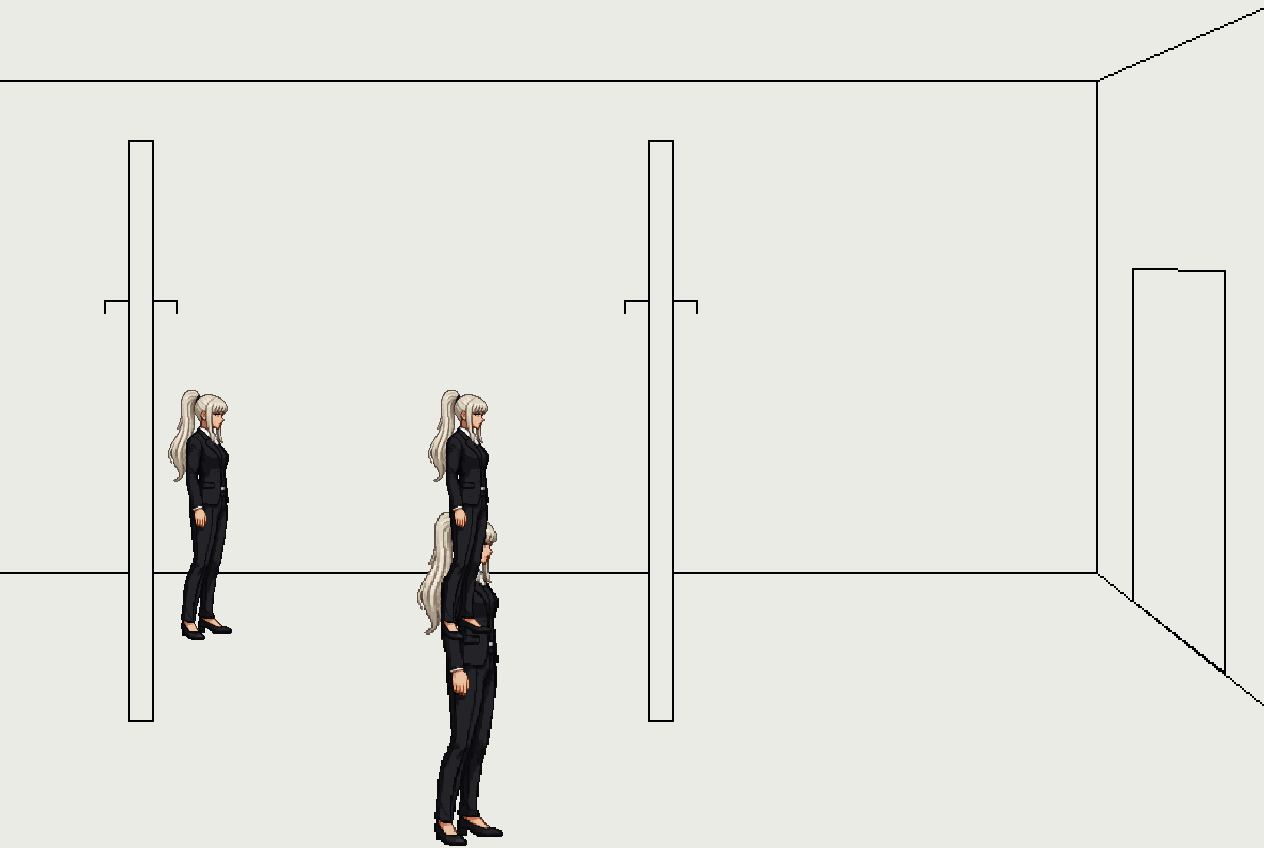
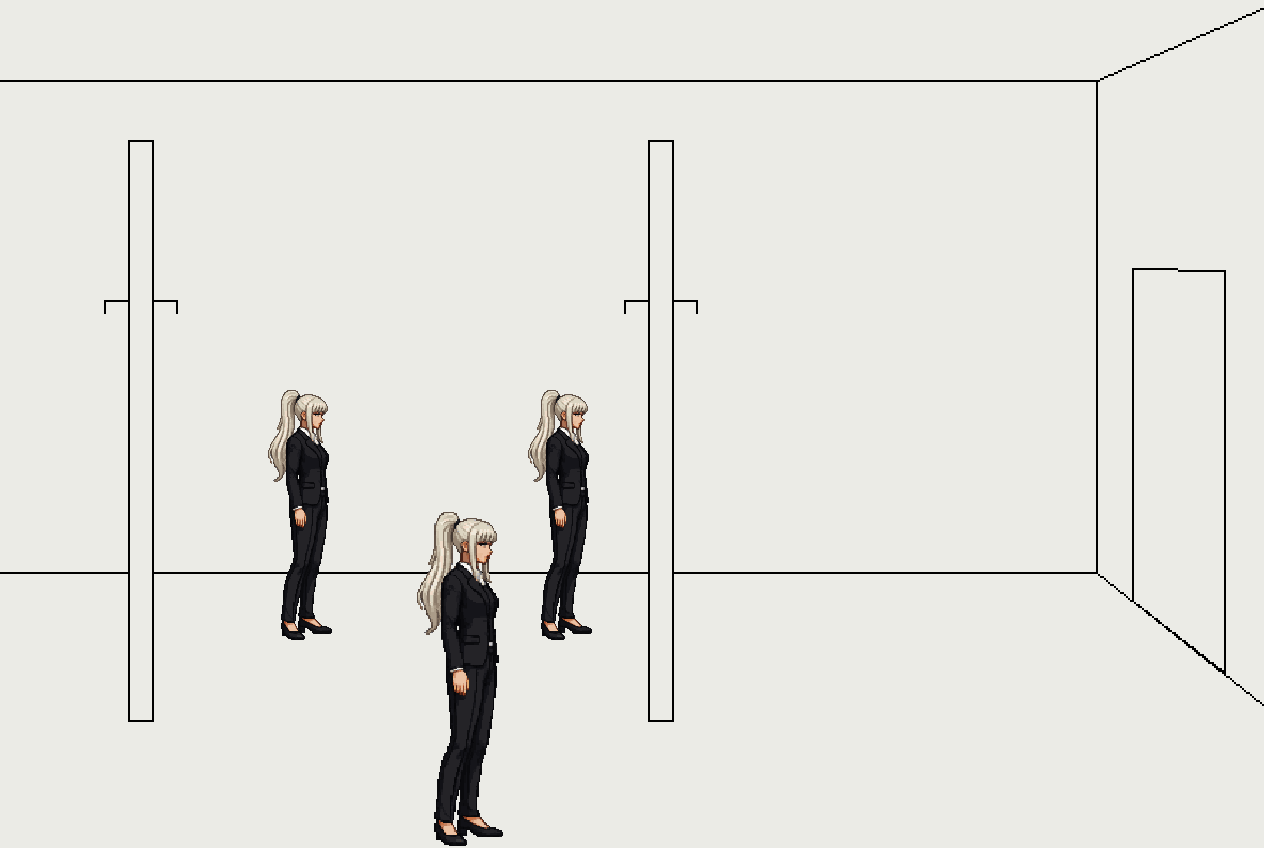
가이드 v6 보기 그림 에일린 자리 정리
Claude-Session: https://claude.ai/code/session_01MHVZo5DLwrXC2fz5om82Sb

diff --git a/tools/pixellab/guide_hq_bath_v6.py b/tools/pixellab/guide_hq_bath_v6.py
@@ -29,7 +29,7 @@ bg.resize((W * 2, H * 2), Image.NEAREST).save(P + '/hq_bath_guide_v6_x2_view.png
 from pathlib import Path
 e = Image.open(Path(__file__).resolve().parents[1] / 'mapedit/eileen_stand.png').convert('RGBA')
 v = Image.open(P + '/hq_bath_guide_v6_x2_view.png').convert('RGBA')
-for fx, fy2, hh in ((460, 846, 334), (200, 640, 250), (460, 640, 250)):
+for fx, fy2, hh in ((300, 640, 250), (560, 640, 250), (460, 846, 334)):
     s = e.resize((max(1, round(e.width * hh / e.height)), hh), Image.NEAREST)
     v.alpha_composite(s, (fx - s.width // 2, fy2 - hh))
 v.save(P + '/hq_bath_guide_v6_x2_view.png')
